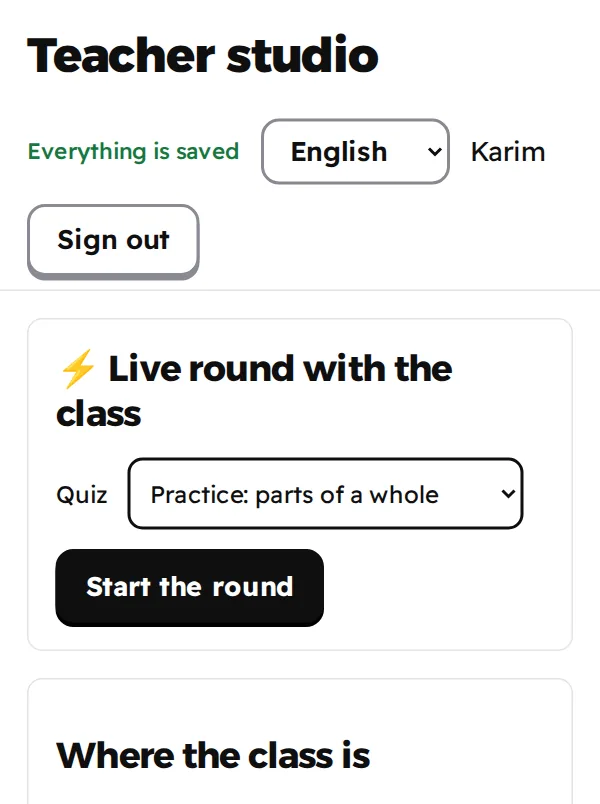
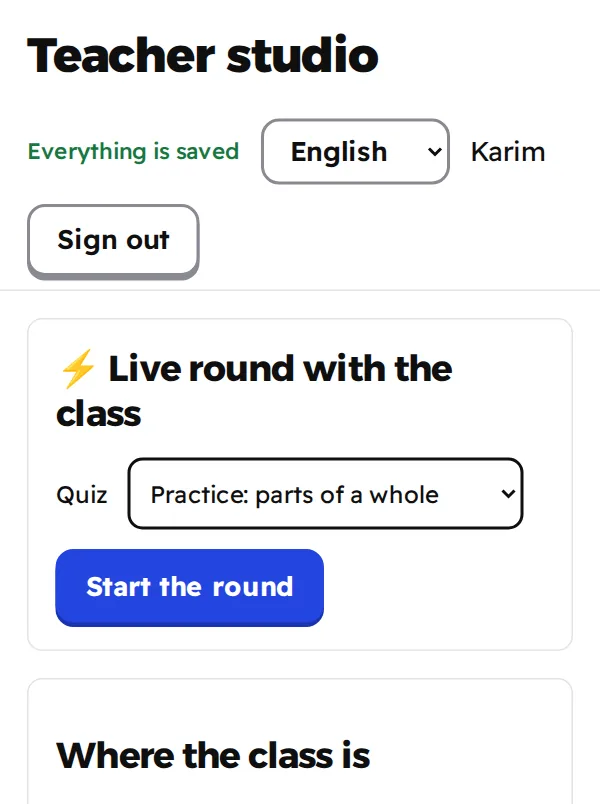
Use one cobalt accent across page and demo
The owner picked cobalt from four measured palettes: 7.0:1 on white
both ways, so it serves as text, button and drawing. Answered tiles
stay solid after Check.

Changed region(s): [[0.09, 0.6841, 0.54, 0.7774]]

diff --git a/web/src/landing/Landing.svelte b/web/src/landing/Landing.svelte
@@ -3,8 +3,7 @@
   // says: an adaptable learning engine, one kernel under any framework under any experience, with
   // AI agents inside approved rules. The demo course is shown as one experience among many. The
   // look (ADR 0017): a light page in the demo's own tokens, heavy Alexandria headings in ink, one
-  // saffron accent used as a highlighter, a console in the hero, dot-matrix drawings that argue
-  // each point. No logo, no gradients, no badges, no numbered labels.
+  // cobalt accent, a console in the hero, dot-matrix drawings that argue each point. No logo, no gradients, no badges, no numbered labels.
   import { onMount } from "svelte";
   import { app } from "../lib/app.svelte.ts";
   import { LANDING } from "../lib/i18n/landing.ts";
@@ -266,10 +265,10 @@
 <style>
   /* The page's design system (ADR 0017): light, in the demo's own tokens, so the pitch and the
      product are one system. White ground, ink headings in heavy Alexandria, grey for reading,
-     saffron only as a highlighter and in the drawings, never as text or as the face of a control.
-     No logo, no gradients, no badges. Contrast, measured: on white ink 19.2, muted 7.4, accent
-     text 6.3; on --l-surface ink 17.4, muted 6.7, accent text 5.8; white on ink 19.2; ink on
-     saffron 10.7. Control edges (--l-line-strong) 3.4 on white, 3.1 on the surface; --l-line is
+     one cobalt accent for the highlighted phrase, the main buttons and the drawings' lit dots.
+     No logo, no gradients, no badges. Contrast, measured: on white ink 19.2, muted 7.4, cobalt
+     7.0; on --l-surface ink 17.4, muted 6.7, cobalt 6.4; white on cobalt 7.0, on ink 19.2.
+     Cobalt on ink is 2.7, so cobalt never sits on the ink block. Control edges (--l-line-strong) 3.4 on white, 3.1 on the surface; --l-line is
      only for separators. tests/static/contrast.spec.ts measures the page. */
   .landing {
     --l-bg: #ffffff;
@@ -280,15 +279,16 @@
     --l-line: #e4e4e7;
     --l-line-strong: #8a8a93;    /* the edge of every control: 3.4 on white */
     --l-tint: #f4f4f5;
-    --l-accent: #f7b63c;          /* saffron: a highlighter and the drawings' lit dots */
-    --l-accent-ink: #8a5300;      /* saffron as words */
-    --l-on-accent: #0f0f10;
+    --l-accent: #2445e0;          /* cobalt: the one accent, the whole page */
+    --l-accent-ink: #2445e0;
+    --l-accent-dark: #1a34b0;
+    --l-on-accent: #ffffff;
     --l-locked: #8a8a93;
     --l-mono: ui-monospace, "SF Mono", "JetBrains Mono", Menlo, Consolas, monospace;
     --l-display: "Alexandria Variable", "Alexandria", "Readex Pro Variable", system-ui, sans-serif;
     --px-ring: #e4e4e7;
     --px-dim: #a1a1aa;
-    --px-on: #f7b63c;
+    --px-on: #2445e0;
     --px-ink: #0f0f10;
     font-family: "Readex Pro Variable", "Readex Pro", system-ui, sans-serif;
     font-size: 17px;
@@ -317,10 +317,10 @@
   /* Buttons: ink pills for the one thing to do, outlined pills for the other. */
   .cta {
     display: inline-flex; align-items: center; gap: 10px; min-height: 52px; padding: 0 24px; border-radius: 999px;
-    background: var(--l-ink); color: #fff; font-weight: 600; text-decoration: none; white-space: nowrap;
+    background: var(--l-accent); color: var(--l-on-accent); font-weight: 600; text-decoration: none; white-space: nowrap;
     transition: transform 160ms ease, background-color 160ms ease;
   }
-  .cta:hover { background: #26262a; transform: translateY(-1px); }
+  .cta:hover { background: var(--l-accent-dark); transform: translateY(-1px); }
   .cta:active { transform: translateY(1px) scale(0.98); }
   .cta.small { min-height: 40px; padding: 0 18px; font-size: 14.5px; }
   .ghost { display: inline-flex; align-items: center; gap: 10px; min-height: 52px; padding: 0 24px; border-radius: 999px; border: 2px solid var(--l-line-strong); background: var(--l-bg); color: var(--l-ink); text-decoration: none; font-weight: 600; white-space: nowrap; }
@@ -346,9 +346,9 @@
   /* Hero: the claim, the console that proves it, then the live engine. */
   .hero { position: relative; padding: 96px 0 80px; }
   .pitch { text-align: center; display: grid; justify-items: center; }
-  h1 { font-size: clamp(42px, 6.2vw, 84px); line-height: 1.05; margin: 0 0 24px; font-weight: 900; letter-spacing: -0.035em; max-width: 15ch; }
-  /* The one highlighted phrase: a flat saffron marker under ink words (ink on saffron 10.7). */
-  h1 em { font-style: normal; background: var(--l-accent); box-decoration-break: clone; -webkit-box-decoration-break: clone; padding: 0 0.12em; border-radius: 0.12em; }
+  h1 { font-size: clamp(42px, 6.2vw, 84px); line-height: 1.05; margin: 0 0 24px; font-weight: 900; letter-spacing: -0.035em; max-width: 18ch; }
+  /* The one highlighted phrase, in cobalt (7.0 on white). */
+  h1 em { font-style: normal; color: var(--l-accent); }
   .lead { font-size: 19px; color: var(--l-muted); max-width: 56ch; margin: 0 0 36px; }
   .ctas { display: flex; flex-wrap: wrap; justify-content: center; gap: 12px; margin-top: 28px; }
   .note { margin: 18px 0 0; font-size: 15px; color: var(--l-muted); }
@@ -362,7 +362,7 @@
   .facts ul { list-style: none; margin: 0 auto; display: grid; grid-template-columns: repeat(6, 1fr); }
   .facts li { display: flex; gap: 10px; align-items: flex-start; padding: 22px 14px; font-size: 15px; font-weight: 500; color: var(--l-ink); border-inline-start: 1px solid var(--l-line); line-height: 1.4; }
   .facts li:last-child { border-inline-end: 1px solid var(--l-line); }
-  .tick { width: 8px; height: 8px; margin-top: 6px; flex: none; background: var(--l-ink); border-radius: 50%; }
+  .tick { width: 8px; height: 8px; margin-top: 6px; flex: none; background: var(--l-accent); border-radius: 50%; }
 
   .split { display: grid; grid-template-columns: 1fr 1.7fr; gap: 56px; }
   .side { align-self: start; position: sticky; top: 96px; }
@@ -412,7 +412,7 @@
   :global([dir="rtl"]) .flow li:not(:last-child)::after { content: "←"; }
   .step { font: 700 13px/1 var(--l-mono); color: var(--l-muted); }
   .flow li.person { font-weight: 800; }
-  .flow li.person > :not(.step) { background: var(--l-accent); }
+  .flow li.person > :not(.step) { color: var(--l-accent); }
   .agents { list-style: none; padding: 0; margin: 0; display: grid; grid-template-columns: repeat(4, 1fr); gap: 0; border-top: 2px solid var(--l-ink); }
   .agents li { padding: 22px 22px 8px 0; border-inline-end: 1px solid var(--l-raise); padding-inline-start: 22px; }
   .agents li:first-child { padding-inline-start: 0; }
@@ -457,7 +457,7 @@
   .end-in p { margin: 0; color: #d4d4d8; }
   .end-actions { display: flex; flex-wrap: wrap; gap: 12px; align-items: center; }
   .end-cta .cta { background: #fff; color: var(--l-ink); }
-  .end-cta .cta:hover { background: var(--l-accent); }
+  .end-cta .cta:hover { background: var(--l-accent); color: #fff; }
   .end-cta .ghost { background: var(--l-ink); color: #fff; border-color: #a1a1aa; }
   .end-cta .ghost:hover { border-color: #fff; }
 
@@ -469,7 +469,7 @@
   .words { max-width: 1200px; margin: 0 auto; padding: 56px 24px 72px; text-align: center; font: 900 clamp(30px, 6vw, 84px)/1.15 var(--l-display); letter-spacing: -0.035em; }
   .words:lang(ar) { letter-spacing: 0; }
   .w { position: relative; display: inline-block; padding: 0 0.12em; }
-  .w::before, .w::after { content: ""; position: absolute; inset: -0.04em 0; border: 3px solid var(--l-ink); opacity: 0; pointer-events: none; }
+  .w::before, .w::after { content: ""; position: absolute; inset: -0.04em 0; border: 3px solid var(--l-accent); opacity: 0; pointer-events: none; }
   .w::before { border-inline-end: 0; width: 0.22em; inset-inline-end: auto; }
   .w::after { border-inline-start: 0; width: 0.22em; inset-inline-start: auto; }
   .sep { color: var(--l-muted); }

diff --git a/web/src/app.css b/web/src/app.css
@@ -1,11 +1,11 @@
-/* Tokens for every screen of the app (ADR 0016): a light, quiet lesson in the manner of Brilliant,
-   sharing the front page's faces and its saffron. White ground, ink text, heavy Alexandria
-   headings, one idea per screen, chunky choices, Check and Continue pinned at the bottom. Colour
-   is never the only signal: every state also has a glyph or words. Contrast, measured (WCAG 2.2:
-   text 4.5, large text and control edges 3): on white, ink 19.2, muted 7.4, accent text 6.3,
-   green 5.6, orange text 5.5 on its tint, star 5.0; ink on saffron 10.7; white on green 5.6, on
-   orange 4.6. Anything pressed or typed into has an --edge of 3.4 on white (3.1 on --paper-2);
-   --line is only for separators that carry no meaning. tests/e2e/contrast.spec.ts checks it. */
+/* Tokens for every screen of the app (ADR 0017): a light, quiet lesson in the manner of Brilliant,
+   sharing the front page's faces and its one accent, cobalt. White ground, ink text, heavy
+   Alexandria headings, one idea per screen, chunky choices, Check and Continue pinned at the
+   bottom. Colour is never the only signal: every state also has a glyph or words. Contrast,
+   measured (WCAG 2.2: text 4.5, large text and control edges 3): on white, ink 19.2, muted 7.4,
+   cobalt 7.0, green 5.6, orange text 5.5 on its tint; white on cobalt 7.0, on green 5.6, on
+   orange 4.6; ink on --accent-soft 17.0. Anything pressed or typed into has an --edge of 3.4 on
+   white (3.1 on --paper-2); --line is only for separators. tests/static/contrast.spec.ts. */
 :root {
   --paper: #ffffff;
   --paper-2: #f4f4f5;
@@ -16,20 +16,20 @@
   --ink: #0f0f10;
   --muted: #55555d;
   --display: "Alexandria Variable", "Alexandria", "Readex Pro Variable", system-ui, sans-serif;
-  --accent: #f7b63c;         /* saffron fills; text on it is ink */
-  --accent-soft: #fff4dc;
-  --accent-ink: #8a5300;     /* saffron as text */
-  --on-accent: #0f0f10;
-  --accent-edge: #c98a17;
-  --accent-tint: #fff4dc;
+  --accent: #2445e0;         /* cobalt: 7.0 on white, white on it 7.0 */
+  --accent-soft: #eef1fd;
+  --accent-ink: #2445e0;
+  --on-accent: #ffffff;
+  --accent-edge: #1a34b0;    /* the lip under a cobalt button */
+  --accent-tint: #eef1fd;
   --achieved: #17773f;       /* right, mastered: 5.6 on white, white on it 5.6 */
   --achieved-edge: #0f5a2f;
   --right-tint: #e9f7ef;
   --try: #c4520f;            /* not yet: white on it 4.6 */
   --try-ink: #a8430c;
   --try-tint: #fff1e7;
-  --go: #0f0f10;
-  --go-edge: #000000;
+  --go: #2445e0;
+  --go-edge: #1a34b0;
   --in-progress: #0f0f10;
   --blue-edge: #000000;
   --teal-text: #55555d;
@@ -42,14 +42,14 @@
   --locked-fill: #f4f4f5;
   --locked-edge: #8a8a93;
   --agent: #6d3fc4;          /* reserved: anything an AI did or proposed */
-  --star: #9a6400;
-  --gold: #f7b63c;
-  --gold-edge: #c98a17;
+  --star: #2445e0;
+  --gold: #2445e0;
+  --gold-edge: #1a34b0;
   --flame: #c4520f;
   --mint: #e9f7ef;
   --sky: #f4f4f5;
   --sky-top: #f4f4f5;
-  --dune: #fff4dc;
+  --dune: #eef1fd;
   --dune-deep: #d4d4d8;
   --dot: transparent;
   --focus: #0f0f10;
@@ -76,7 +76,7 @@ button:active:not(:disabled) { transform: translateY(2px); box-shadow: 0 1px 0 v
 button.primary {
   background: var(--go); border-color: var(--go); box-shadow: 0 3px 0 var(--go-edge); color: #fff; font-size: 18px; font-weight: 700;
 }
-button.primary:hover:not(:disabled) { border-color: var(--go); background: #26262a; }
+button.primary:hover:not(:disabled) { border-color: var(--go-edge); background: var(--go-edge); }
 /* A button that cannot be pressed yet still shows where it is: a dashed edge (3.4), muted words
    (7.4), no lip. A grey face on a white ground read as nothing at all (owner, 2026-11-03). */
 button:disabled, button.primary:disabled { cursor: default; background: var(--paper); border: 2px dashed var(--edge); box-shadow: none; color: var(--muted); }

diff --git a/web/src/landing/Ask.svelte b/web/src/landing/Ask.svelte
@@ -100,9 +100,9 @@
   .live { font: 600 12px/1 var(--l-mono); color: var(--l-accent-ink); }
   .body { padding: 18px 20px 8px; min-height: 196px; }
   .q { margin: 0 0 14px; font-size: 16px; color: var(--l-ink); display: flex; gap: 10px; align-items: baseline; }
-  .caret { color: var(--l-ink); font-weight: 700; }
+  .caret { color: var(--l-accent); font-weight: 700; }
   :global([dir="rtl"]) .caret { transform: scaleX(-1); display: inline-block; }
-  .cursor { display: inline-block; width: 8px; height: 1.05em; margin-inline-start: 2px; background: var(--l-ink); vertical-align: text-bottom; animation: blink 900ms steps(1) infinite; }
+  .cursor { display: inline-block; width: 8px; height: 1.05em; margin-inline-start: 2px; background: var(--l-accent); vertical-align: text-bottom; animation: blink 900ms steps(1) infinite; }
   .a { list-style: none; margin: 0; padding: 0; display: grid; gap: 8px; }
   .a li { display: grid; grid-template-columns: 7.5rem 1fr; gap: 12px; font-size: 14.5px; line-height: 1.45; animation: line-in 320ms cubic-bezier(.16,1,.3,1) both; }
   .k { font: 600 12px/1.9 var(--l-mono); text-transform: uppercase; letter-spacing: 0.06em; color: var(--l-accent-ink); }

diff --git a/web/src/landing/LiveEngine.svelte b/web/src/landing/LiveEngine.svelte
@@ -179,7 +179,7 @@
   }
   .tabs button:hover { background: var(--l-raise); }
   .tabs button:active { transform: scale(0.97); }
-  .tabs button.on { background: var(--l-ink); color: #fff; }
+  .tabs button.on { background: var(--l-accent); color: var(--l-on-accent); }
   .story { margin: 10px 0 12px; color: var(--l-muted); font-size: 15px; line-height: 1.55; }
   .stage { min-height: 268px; }
   .muted { color: var(--l-muted); font-weight: 400; }
@@ -190,10 +190,10 @@
   .dot { width: 38px; height: 38px; flex: none; display: grid; place-items: center; border-radius: 50%; font-weight: 700; color: #fff; background: var(--c); }
   .text { display: grid; gap: 1px; font-size: 15px; }
   .status { font-size: 14px; }
-  .achieved { --c: var(--l-accent); }
-  .stone.achieved { border-color: var(--l-ink); }
-  .in_progress { --c: #0b7285; }
-  .not_started { --c: #1d7a45; }
+  .achieved { --c: #17773f; }
+  .stone.achieved { border-color: #17773f; }
+  .in_progress { --c: var(--l-accent); }
+  .not_started { --c: var(--l-ink); }
   .needs_support { --c: #b4471f; }
   .locked { --c: var(--l-locked); }
   .stone.locked .dot { color: var(--l-ink); }

diff --git a/web/src/screens/Path.svelte b/web/src/screens/Path.svelte
@@ -165,7 +165,7 @@
   /* The level to play next: a card around the row, and a Start button inside it. */
   .next .node { padding: 12px; margin-inline: -12px; width: calc(100% + 24px); background: var(--surface); border: 2px solid var(--ink); box-shadow: 0 4px 0 var(--ink); }
   .next::before { inset-inline-start: 31px; }
-  .start { flex: none; padding: 10px 18px; border-radius: 12px; background: var(--ink); color: #fff; font-weight: 700; font-size: 16px; }
+  .start { flex: none; padding: 10px 18px; border-radius: 12px; background: var(--accent); color: var(--on-accent); font-weight: 700; font-size: 16px; }
   .next:not(:last-child)::before { top: 80px; }
   .goal .disc { font-size: 28px; filter: grayscale(1); opacity: 0.85; box-shadow: none; }
   .goal.won .disc { filter: none; opacity: 1; --disc: var(--accent-soft); --disc-edge: var(--accent); }

diff --git a/web/src/play/Answer.svelte b/web/src/play/Answer.svelte
@@ -125,6 +125,10 @@
   .cells { display: flex; width: min(100%, 420px); gap: 6px; }
   .cell { flex: 1; min-width: 0; min-height: 76px; padding: 0; border-radius: 10px; transition: background-color 140ms ease; }
   .cell.on { background: var(--accent); border-color: var(--ink); box-shadow: 0 3px 0 var(--ink); }
-  .cell:disabled, .tile:disabled { opacity: 1; }
+  /* Once checked, the answer stays as it was given: a solid tile, not the dashed edge of a
+     button that is not ready yet (app.css). */
+  .cell:disabled, .tile:disabled { opacity: 1; border-style: solid; }
+  .cell:disabled, .tiles:not(.live) .tile:disabled { color: var(--ink); }
+  .tiles:not(.live) .tile:disabled:not([aria-checked="true"]) { background: var(--paper); box-shadow: 0 3px 0 var(--edge); }
   .count { font: 700 26px/1.2 var(--display); margin: 0; }
 </style>

diff --git a/web/src/screens/Welcome.svelte b/web/src/screens/Welcome.svelte
@@ -86,7 +86,7 @@
   .name { font: 700 20px/1.2 var(--display); }
   .blurb { font-size: 16px; font-weight: 400; line-height: 1.4; color: var(--muted); }
   .meta { font-size: 14px; font-weight: 500; color: var(--muted); }
-  .enter { flex: none; padding: 10px 18px; border-radius: 12px; background: var(--ink); color: #fff; font-weight: 700; font-size: 16px; }
+  .enter { flex: none; padding: 10px 18px; border-radius: 12px; background: var(--accent); color: var(--on-accent); font-weight: 700; font-size: 16px; }
   .busy { font-weight: 600; color: var(--achieved); }
   .alert { border-color: var(--needs-support); color: var(--needs-support); }
   /* Three plain facts on one line, separated by dots: words, not badges. */

diff --git a/web/tests/static/contrast.spec.ts b/web/tests/static/contrast.spec.ts
@@ -69,6 +69,9 @@ test("every learner screen, measured: cards, path, each step, right and wrong, t
   await expectAccessible(page, "lesson: answer picked");
   await button(page, "تحقّق").click();
   await expectAccessible(page, "lesson: not this time");
+  // Answers already given stay solid tiles; only a button not ready yet wears the dashed edge.
+  for (const style of await page.getByRole("radio").evaluateAll((els) => els.map((e) => getComputedStyle(e).borderTopStyle)))
+    expect(style).toBe("solid");
   await button(page, "تابع").click();
   await page.getByRole("spinbutton", { name: "البسط" }).fill("1");
   await page.getByRole("spinbutton", { name: "المقام" }).fill("1");

diff --git a/docs/adr/0017-a-light-page-without-ornament.md b/docs/adr/0017-a-light-page-without-ornament.md
@@ -13,9 +13,11 @@ skipped them), and every progress track was #f4f4f5 on white (1.1:1), so empty b
 ## Decision
 - **One design system.** The front page uses the demo's light tokens: white and one grey
   surface for alternate sections, ink Alexandria headings, grey reading text.
-- **Saffron is a highlighter, not a control.** On white it is 1.8:1, so no control is
-  saffron. Buttons and tabs are ink. Saffron marks one phrase of the headline (ink on it, 10.7)
-  and lights the drawings.
+- **One accent, cobalt (#2445e0), the owner's pick from four measured palettes.** It is 7.0:1
+  on white and white on it is 7.0:1, so it serves as text, as a button face and as the
+  drawings' lit dots. Saffron failed as a control (1.8:1 on white) and is gone. Cobalt on the
+  ink block is 2.7:1, so it never sits there. States keep their own colours, the same on both
+  pages: mastered green, in progress cobalt, help orange, locked grey.
 - **No logo, gradients or badges.** The name is a word. Frames are one plain edge. States
   are words with a small square of colour. Pills, chips, glows and dotted gradient fills are
   removed. A test fails on any gradient or logo on the front page.

diff --git a/.claude/skills/girth-landing/SKILL.md b/.claude/skills/girth-landing/SKILL.md
@@ -17,9 +17,9 @@ State one line before building: page kind, audience, vibe, aesthetic family. Zid
 a pitch for schools, education systems and builders. **Zidara is the adaptable learning engine / LMS for the
 AI era (kernel, any framework, any experience, governed agents; `docs/proposal.md`). Never pitch
 it as a game: the game is one experience that shows the engine bends** (owner, ADR 0015). Look
-(ADR 0017): light, the demo's tokens, ink Alexandria headings, saffron only as a flat
-highlighter and in the drawings. **No logo, gradients or badges** (owner: AI tells; a test fails on
-gradients). Saffron fails 3:1 on white: controls are ink. Start from the owner's references, not from taste.
+(ADR 0017): light, the demo's tokens, ink Alexandria headings, one cobalt accent (#2445e0,
+7.0 both ways on white; owner's pick). **No logo, gradients or badges** (owner: AI tells).
+Start from the owner's references, not from taste.
 
 ## Hard layout rules <!-- src: design-taste-frontend#4-7-layout-discipline-hard-rules-failing-any-of-these-is-shipping-broken-work -->
 - Hero fits the first screen: headline ≤ 3 lines, subtext ≤ 20 words, CTAs visible. Max 4 text elements.

diff --git a/CHANGELOG.md b/CHANGELOG.md
@@ -8,12 +8,15 @@ All notable changes to Zidara are recorded here. The format follows
 ### Added
 
 - The front page is light (ADR 0017), in the demo's own tokens: ink headings, white and grey
-  sections, saffron only as a highlighter. No logo, no gradients, no badges; a test fails on
+  sections, one cobalt accent (#2445e0) on both pages, the owner's pick of four measured
+  palettes; saffron is gone. No logo, no gradients, no badges; a test fails on
   any gradient or logo. Its screenshots and share image show the new look.
 - The contrast walk now measures disabled buttons and every progress bar's track too.
 
 ### Fixed
 
+- After Check, the answers already given stayed solid tiles; for a moment they had taken the
+  dashed edge meant for buttons not ready yet.
 - Zidara reads as what it is: an open-source learning engine for any language. The README,
   the front page and the project skill no longer single out languages or regions ("right to
   left from the start" says what matters), and the five whys use global figures. The

diff --git a/docs/JOURNAL.md b/docs/JOURNAL.md
@@ -26,6 +26,14 @@ internet in reach who do not use it, 1 in 6 users on 3G or basic phones. The fac
 French, English" became "Any language, right to left from the start". The About line on GitHub
 is public, so a new one waits for the owner.
 
+**Then the colour.** The owner did not like the light page's colours either. After three looks
+chosen by my taste, I showed four measured palettes instead (cobalt, forest, brick, black and
+white), each with its ratios, and the owner picked cobalt: #2445e0, 7.0:1 on white both ways,
+so one colour can be text, a button and a lit dot. The GitHub About line became the one the
+owner approved. One regression surfaced on screen: the new dashed disabled style also caught
+answer tiles after Check. A test now fails if an answered tile goes dashed, and it did fail,
+before the fix.
+
 **The lesson.** Words written on day zero outlive the decisions that replace them. When the
 positioning changes, sweep every public string, the hosting service's settings included.
 
